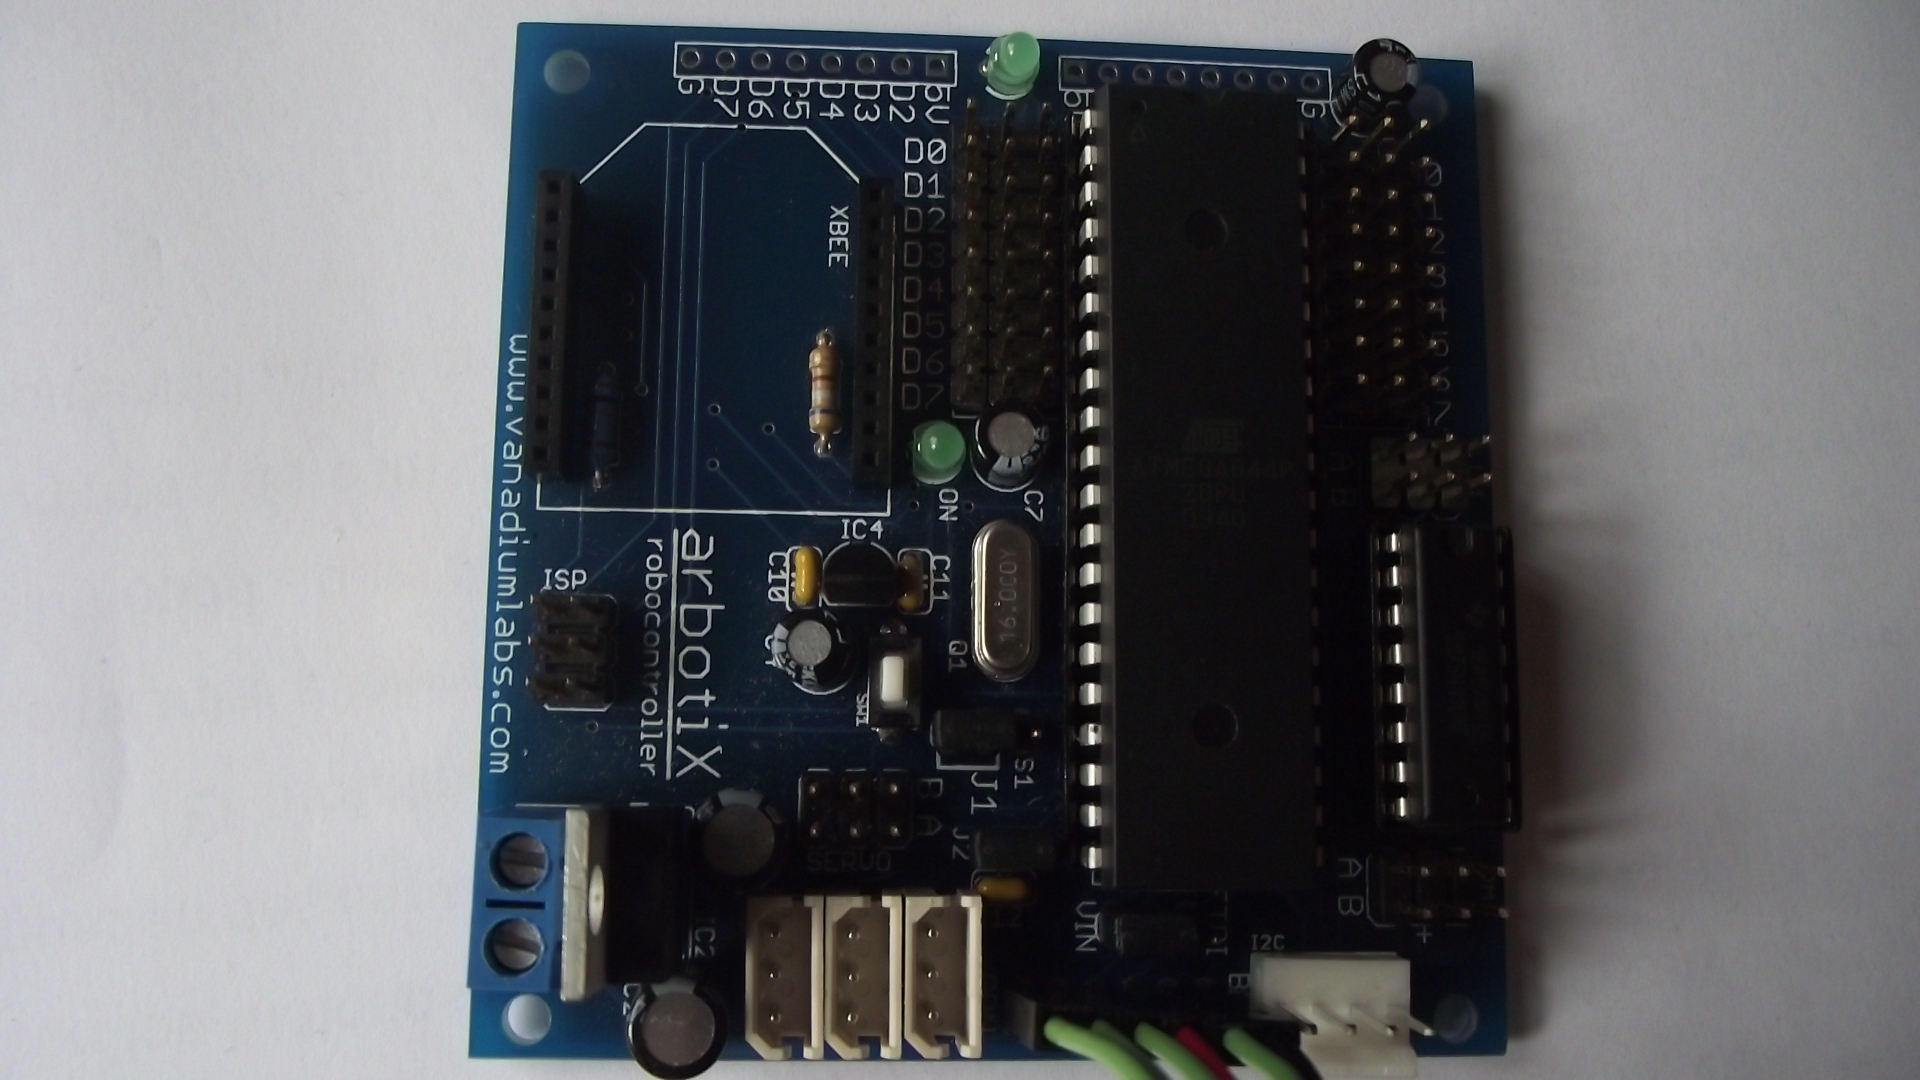
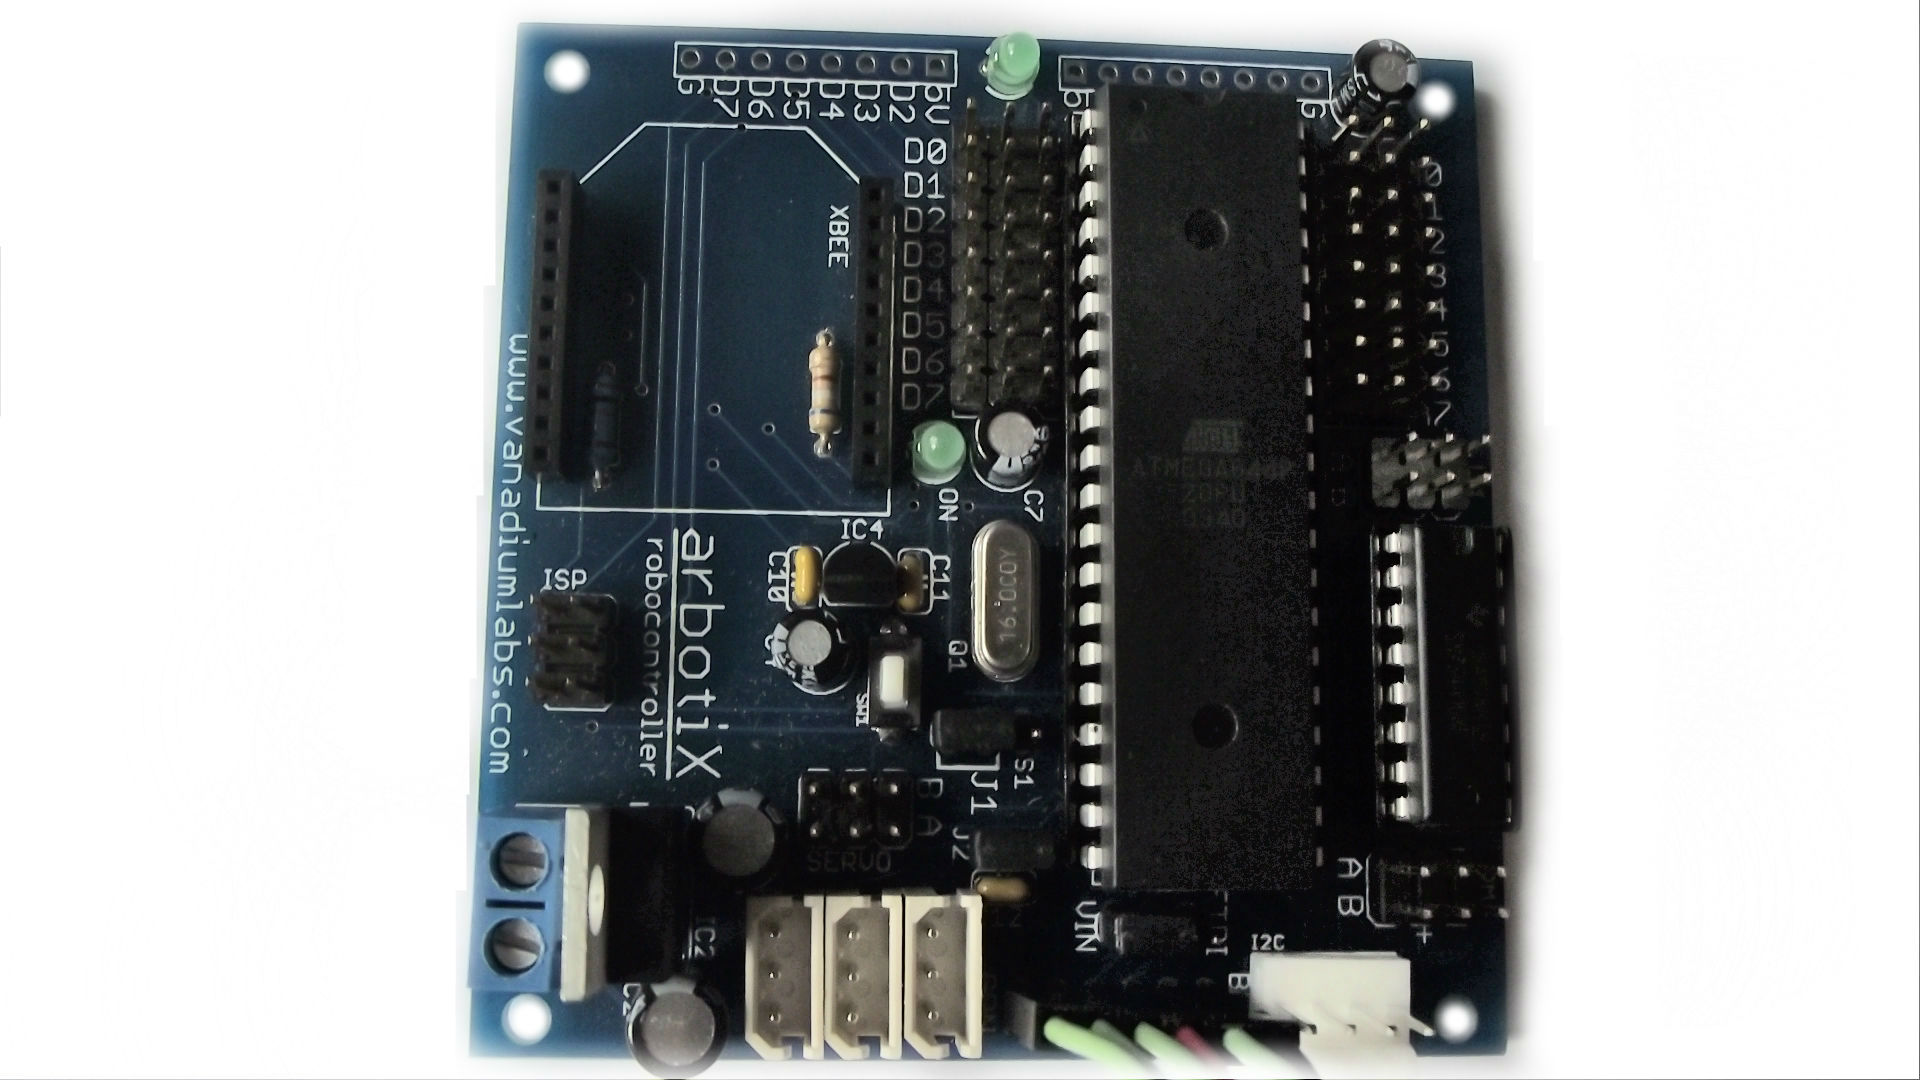
Ultimos cambios del dia antes

diff --git a/Presentacion/LaminasLatex/laminasJunny.tex b/Presentacion/LaminasLatex/laminasJunny.tex
@@ -143,8 +143,10 @@ una pelota de forma aut\'onoma e inteligente}
 \end{frame}
 
 \begin{frame}
-
-\includegraphics[scale=0.09]{Arbotix.jpg} 
+\frametitle{Partes del robot}
+ \framesubtitle{Arbotix}
+\centering
+\includegraphics[scale=0.12]{Arbotix.jpg} 
 
 \end{frame}
 
